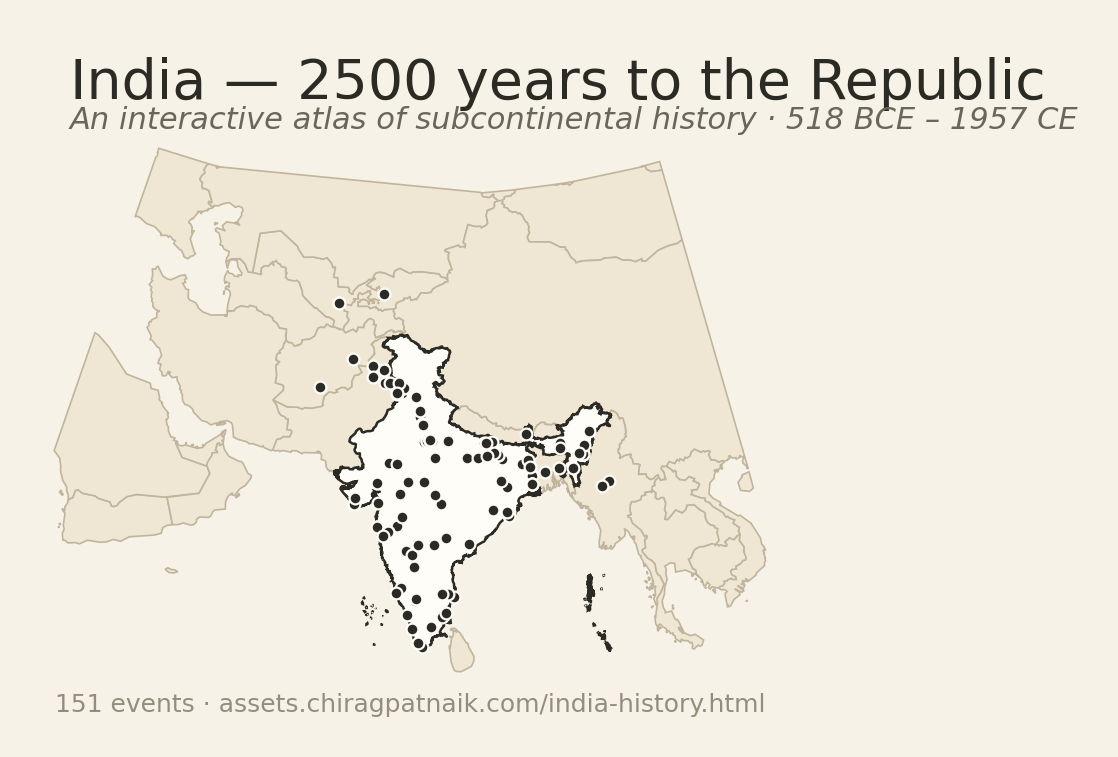
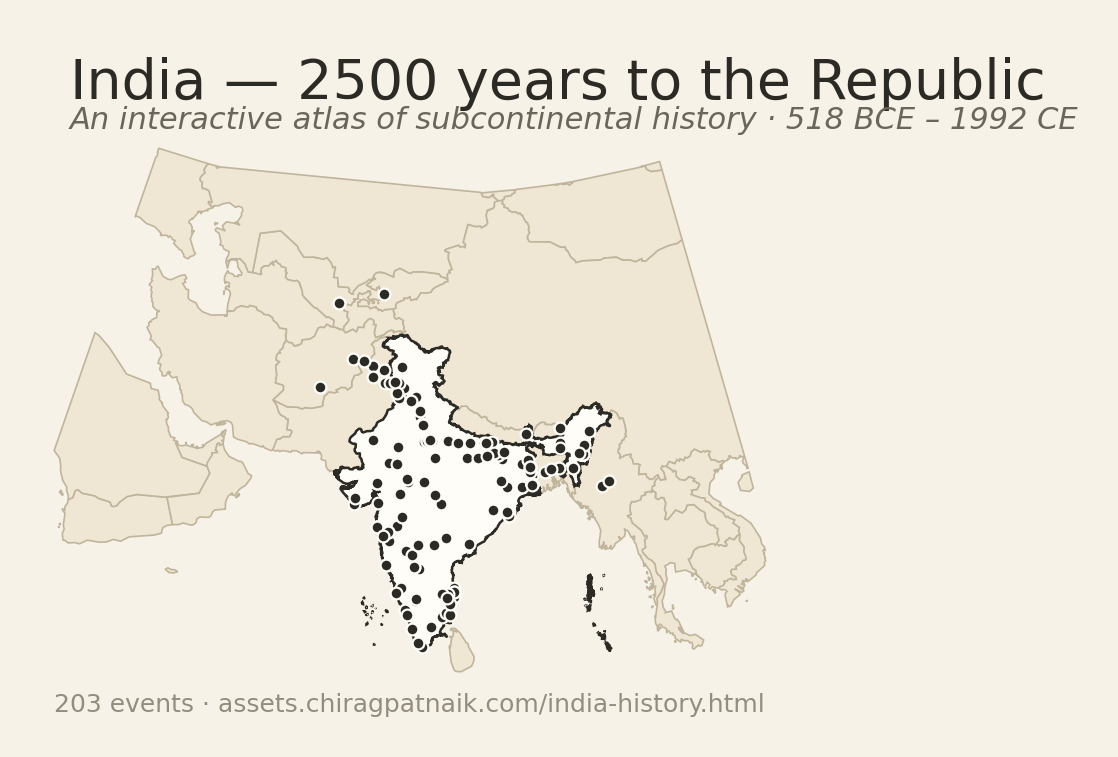
Footer: Contribute + Corrections links; OG alt refresh; pagenav-inject in deploy
- web/template.html footer: split single GitHub link into two — Contribute
  (https://naklitechie.github.io/india-2500/contribute/, the form) and
  Corrections (issue template). Casual visitors hit the form directly.
- web/template.html: og:image:alt updated from stale "37 events 1526-1947"
  to "203 events 518 BCE to 1992 CE". Favicon and og:image already wired
  (favicon.svg and india-history.png both served from the assets host).
- build/_pagenav-inject.py: new helper that injects the assets-host
  page-nav sidebar (CSS + HTML+JS, fetches /pages.json at runtime) into
  the india-history.html copied to the assets repo. Idempotent.
- build/deploy.sh: invokes _pagenav-inject.py after copying the build
  artifact, so future deploys self-heal the sidebar without manual steps.

Web/india-history.html and PNGs rebuilt; deploy already pushed to assets.

diff --git a/web/india-history.html b/web/india-history.html
@@ -14,7 +14,7 @@
 <meta property="og:image" content="https://assets.chiragpatnaik.com/india-history.png">
 <meta property="og:image:width" content="1200">
 <meta property="og:image:height" content="675">
-<meta property="og:image:alt" content="A map of the Indian subcontinent with pins for 37 historical events from 1526 to 1947.">
+<meta property="og:image:alt" content="A map of the Indian subcontinent with pins for 203 historical events from 518 BCE to 1992 CE.">
 <meta name="twitter:card" content="summary_large_image">
 <meta name="twitter:image" content="https://assets.chiragpatnaik.com/india-history.png">
 <meta name="author" content="Chirag Patnaik">
@@ -1461,7 +1461,7 @@
 <div class="popover" id="popover" role="dialog" aria-hidden="true"></div>
 
 <footer>
-  <div>&copy; Chirag Patnaik &middot; <a href="https://chiragpatnaik.com">chiragpatnaik.com</a> &middot; <a href="/">More</a> &middot; <a href="https://github.com/naklitechie/india-2500" rel="noopener">Corrections / contribute on GitHub</a></div>
+  <div>&copy; Chirag Patnaik &middot; <a href="https://chiragpatnaik.com">chiragpatnaik.com</a> &middot; <a href="/">More</a> &middot; <a href="https://naklitechie.github.io/india-2500/contribute/" rel="noopener">Contribute</a> &middot; <a href="https://github.com/naklitechie/india-2500/issues/new?template=correction.md" rel="noopener">Corrections</a></div>
   <div>Boundaries: Datameet (India), Natural Earth (surrounds) &middot; events as of April 2026 &middot; CC BY-SA 4.0</div>
 </footer>
 

diff --git a/web/shell.html b/web/shell.html
@@ -14,7 +14,7 @@
 <meta property="og:image" content="https://assets.chiragpatnaik.com/india-history.png">
 <meta property="og:image:width" content="1200">
 <meta property="og:image:height" content="675">
-<meta property="og:image:alt" content="A map of the Indian subcontinent with pins for 37 historical events from 1526 to 1947.">
+<meta property="og:image:alt" content="A map of the Indian subcontinent with pins for 203 historical events from 518 BCE to 1992 CE.">
 <meta name="twitter:card" content="summary_large_image">
 <meta name="twitter:image" content="https://assets.chiragpatnaik.com/india-history.png">
 <meta name="author" content="Chirag Patnaik">
@@ -1118,7 +1118,7 @@
 <div class="popover" id="popover" role="dialog" aria-hidden="true"></div>
 
 <footer>
-  <div>&copy; Chirag Patnaik &middot; <a href="https://chiragpatnaik.com">chiragpatnaik.com</a> &middot; <a href="/">More</a> &middot; <a href="https://github.com/naklitechie/india-2500" rel="noopener">Corrections / contribute on GitHub</a></div>
+  <div>&copy; Chirag Patnaik &middot; <a href="https://chiragpatnaik.com">chiragpatnaik.com</a> &middot; <a href="/">More</a> &middot; <a href="https://naklitechie.github.io/india-2500/contribute/" rel="noopener">Contribute</a> &middot; <a href="https://github.com/naklitechie/india-2500/issues/new?template=correction.md" rel="noopener">Corrections</a></div>
   <div>Boundaries: Datameet (India), Natural Earth (surrounds) &middot; events as of April 2026 &middot; CC BY-SA 4.0</div>
 </footer>
 

diff --git a/web/template.html b/web/template.html
@@ -14,7 +14,7 @@
 <meta property="og:image" content="https://assets.chiragpatnaik.com/india-history.png">
 <meta property="og:image:width" content="1200">
 <meta property="og:image:height" content="675">
-<meta property="og:image:alt" content="A map of the Indian subcontinent with pins for 37 historical events from 1526 to 1947.">
+<meta property="og:image:alt" content="A map of the Indian subcontinent with pins for 203 historical events from 518 BCE to 1992 CE.">
 <meta name="twitter:card" content="summary_large_image">
 <meta name="twitter:image" content="https://assets.chiragpatnaik.com/india-history.png">
 <meta name="author" content="Chirag Patnaik">
@@ -1118,7 +1118,7 @@
 <div class="popover" id="popover" role="dialog" aria-hidden="true"></div>
 
 <footer>
-  <div>&copy; Chirag Patnaik &middot; <a href="https://chiragpatnaik.com">chiragpatnaik.com</a> &middot; <a href="/">More</a> &middot; <a href="https://github.com/naklitechie/india-2500" rel="noopener">Corrections / contribute on GitHub</a></div>
+  <div>&copy; Chirag Patnaik &middot; <a href="https://chiragpatnaik.com">chiragpatnaik.com</a> &middot; <a href="/">More</a> &middot; <a href="https://naklitechie.github.io/india-2500/contribute/" rel="noopener">Contribute</a> &middot; <a href="https://github.com/naklitechie/india-2500/issues/new?template=correction.md" rel="noopener">Corrections</a></div>
   <div>Boundaries: Datameet (India), Natural Earth (surrounds) &middot; events as of April 2026 &middot; CC BY-SA 4.0</div>
 </footer>
 

diff --git a/build/_pagenav-inject.py b/build/_pagenav-inject.py
@@ -1,0 +1,105 @@
+#!/usr/bin/env python3
+"""
+_pagenav-inject.py — patch a copied india-history.html with the
+assets.chiragpatnaik.com page-nav sidebar.
+
+The page-nav widget is asset-host-specific (it fetches /pages.json), so we
+don't bake it into the build pipeline's template.html. Instead, deploy.sh
+copies the built single-file artifact into the assets repo and then runs
+this script to inject the sidebar CSS + HTML+JS in two splice points.
+
+Idempotent: skips injection if the markers are already present.
+"""
+import sys
+from pathlib import Path
+
+CSS_BLOCK = """
+  /* page-nav sidebar */
+  #pg-toggle{position:fixed;right:0;top:50%;transform:translateY(-50%);background:var(--cream-card);border:1px solid var(--cream-border-soft);border-right:none;border-radius:8px 0 0 8px;padding:12px 7px;cursor:pointer;writing-mode:vertical-rl;font-size:11px;color:var(--cream-muted);letter-spacing:.8px;text-transform:uppercase;z-index:100;font-family:inherit;transition:color .12s;}
+  #pg-toggle:hover{color:var(--cream-text);}
+  #pg-bd{display:none;position:fixed;inset:0;background:rgba(44,42,36,.15);z-index:150;}
+  #pg-bd.open{display:block;}
+  #pg-panel{position:fixed;right:-290px;top:0;height:100vh;width:272px;background:var(--cream-card);border-left:1px solid var(--cream-border-soft);z-index:200;display:flex;flex-direction:column;transition:right .2s ease;}
+  #pg-panel.open{right:0;}
+  #pg-head{display:flex;justify-content:space-between;align-items:center;padding:18px 16px 12px;border-bottom:1px solid var(--cream-border-soft);}
+  #pg-head span{font-size:13px;font-weight:500;color:var(--cream-text);}
+  #pg-close{background:none;border:none;cursor:pointer;color:var(--cream-muted);font-size:20px;padding:0;line-height:1;font-family:inherit;}
+  #pg-close:hover{color:var(--cream-text);}
+  #pg-search{margin:10px 14px 6px;padding:7px 10px;font-size:13px;border:1px solid var(--cream-border);border-radius:6px;background:var(--cream);color:var(--cream-text);font-family:inherit;outline:none;}
+  #pg-search:focus{border-color:var(--cream-muted);}
+  #pg-list{overflow-y:auto;flex:1;padding-bottom:12px;}
+  .pg-item{display:block;padding:6px 16px;font-size:13px;color:var(--cream-muted);text-decoration:none;}
+  .pg-item:hover{background:rgba(60,45,15,.06);color:var(--cream-text);}
+  .pg-item.cur{color:var(--cream-text);font-weight:500;background:rgba(60,45,15,.04);}
+  #pg-home{display:block;padding:8px 16px 10px;font-size:12px;color:var(--cream-faint);text-decoration:none;border-bottom:1px solid var(--cream-border-soft);margin-bottom:4px;}
+  #pg-home:hover{color:var(--cream-muted);}
+  @media(max-width:480px){#pg-panel{width:100%;}}
+"""
+
+HTML_BLOCK = """
+<button id="pg-toggle" aria-label="Browse all assets">All</button>
+<div id="pg-bd"></div>
+<aside id="pg-panel" aria-label="All assets">
+  <div id="pg-head"><span>All Assets</span><button id="pg-close" aria-label="Close">×</button></div>
+  <input id="pg-search" type="search" placeholder="Search…" autocomplete="off" spellcheck="false">
+  <a id="pg-home" href="/">← Index</a>
+  <div id="pg-list"></div>
+</aside>
+<script>
+(function(){
+  var t=document.getElementById('pg-toggle'),p=document.getElementById('pg-panel'),
+      b=document.getElementById('pg-bd'),x=document.getElementById('pg-close'),
+      s=document.getElementById('pg-search'),l=document.getElementById('pg-list'),
+      cur=location.pathname.split('/').pop()||'',all=[];
+  function open(){p.classList.add('open');b.classList.add('open');s.focus();}
+  function close(){p.classList.remove('open');b.classList.remove('open');}
+  t.addEventListener('click',open);b.addEventListener('click',close);x.addEventListener('click',close);
+  document.addEventListener('keydown',function(e){if(e.key==='Escape')close();});
+  function render(arr){
+    l.innerHTML=arr.map(function(a){
+      return '<a class="pg-item'+(a.url===cur?' cur':'')+'" href="/'+a.url+'">'+a.title+'</a>';
+    }).join('');
+  }
+  fetch('/pages.json').then(function(r){return r.json();}).then(function(d){
+    all=d.sort(function(a,b){return a.title.localeCompare(b.title);});
+    render(all);
+  });
+  s.addEventListener('input',function(){
+    var q=s.value.toLowerCase();
+    render(q?all.filter(function(a){return a.title.toLowerCase().indexOf(q)>-1;}):all);
+  });
+})();
+</script>
+"""
+
+def inject(path: Path) -> bool:
+    text = path.read_text()
+    if "pg-toggle" in text:
+        return False  # already injected; idempotent
+    # CSS splice point — last </style> before </head>
+    style_close = text.rfind("</style>", 0, text.find("</head>"))
+    if style_close == -1:
+        raise SystemExit(f"could not find </style> before </head> in {path}")
+    # HTML splice point — </body>
+    body_close = text.rfind("</body>")
+    if body_close == -1:
+        raise SystemExit(f"could not find </body> in {path}")
+    out = (
+        text[:style_close]
+        + CSS_BLOCK
+        + text[style_close:body_close]
+        + HTML_BLOCK
+        + text[body_close:]
+    )
+    path.write_text(out)
+    return True
+
+
+if __name__ == "__main__":
+    if len(sys.argv) != 2:
+        sys.exit("usage: _pagenav-inject.py <path-to-india-history.html>")
+    p = Path(sys.argv[1])
+    if inject(p):
+        print(f"    page-nav sidebar injected into {p.name}")
+    else:
+        print(f"    page-nav sidebar already present in {p.name}; skipped")
